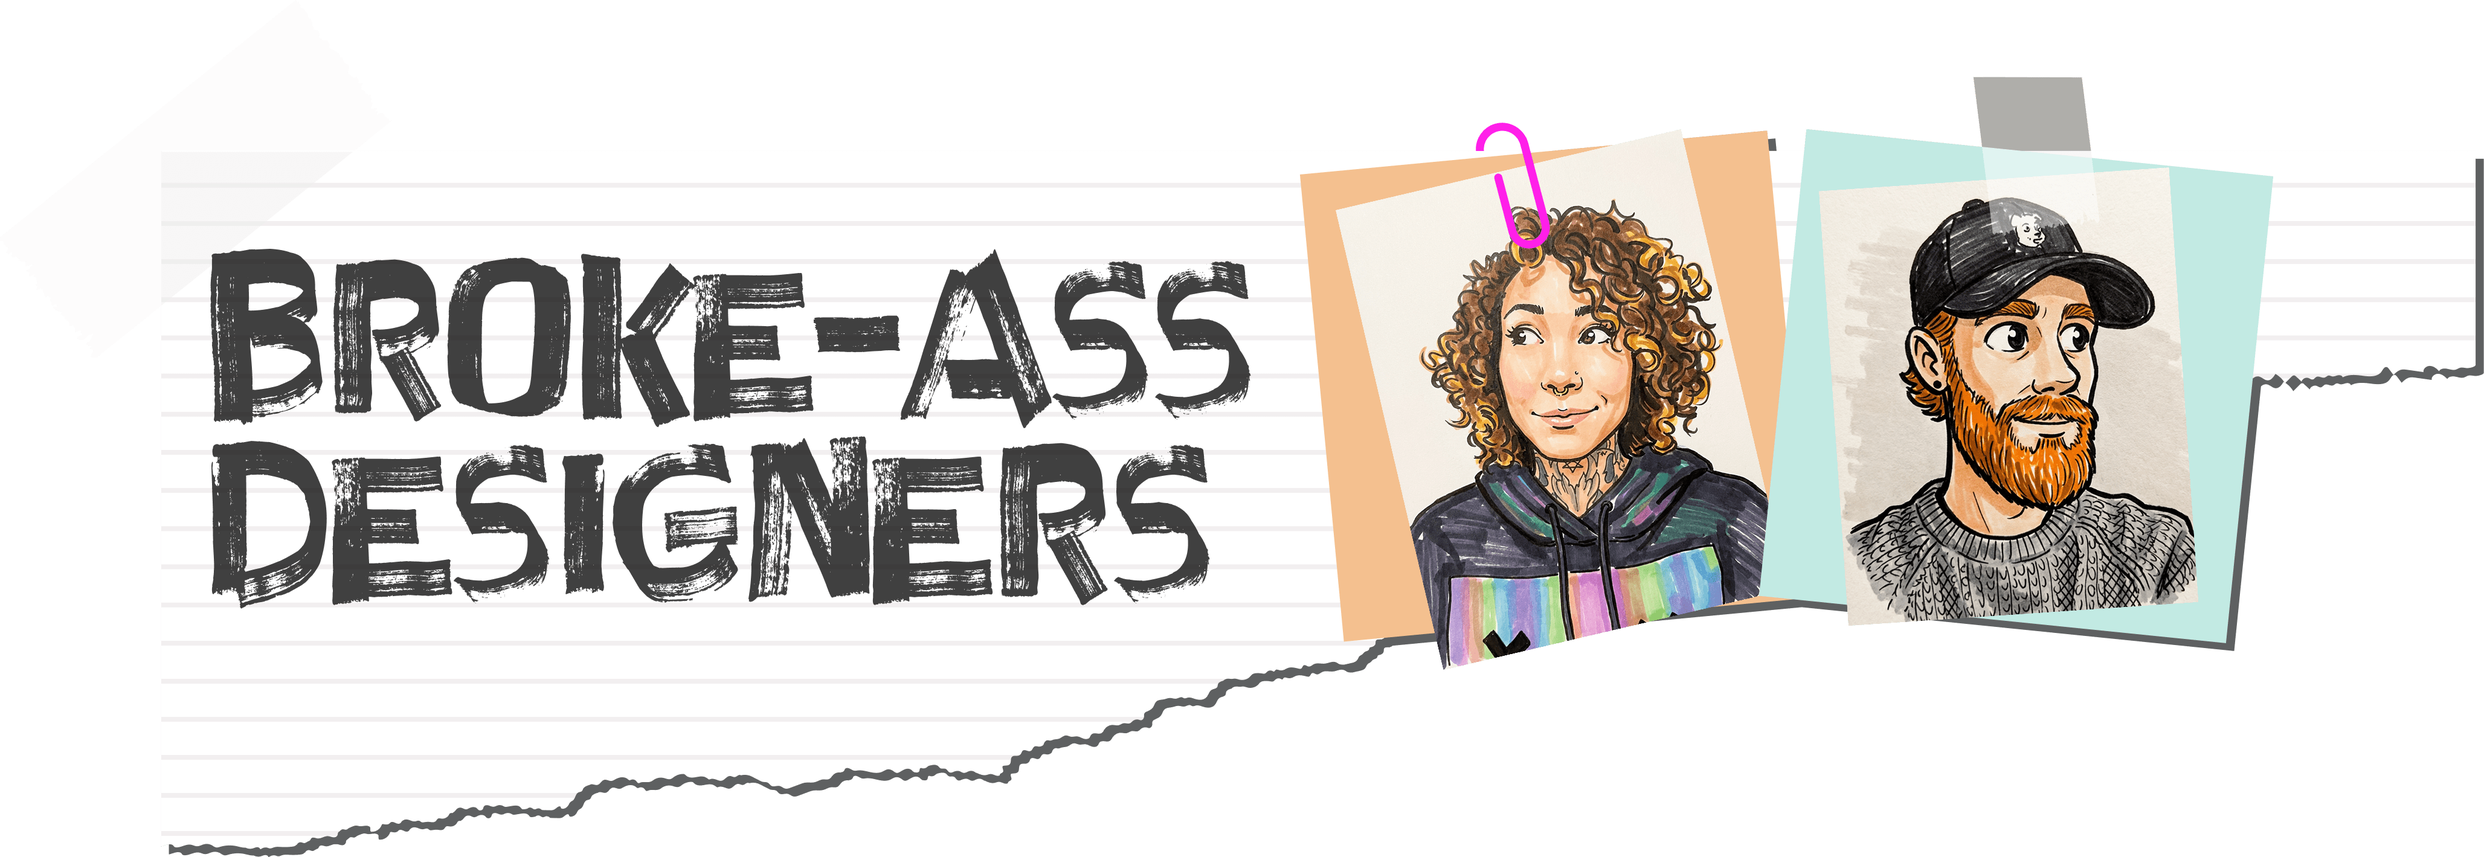
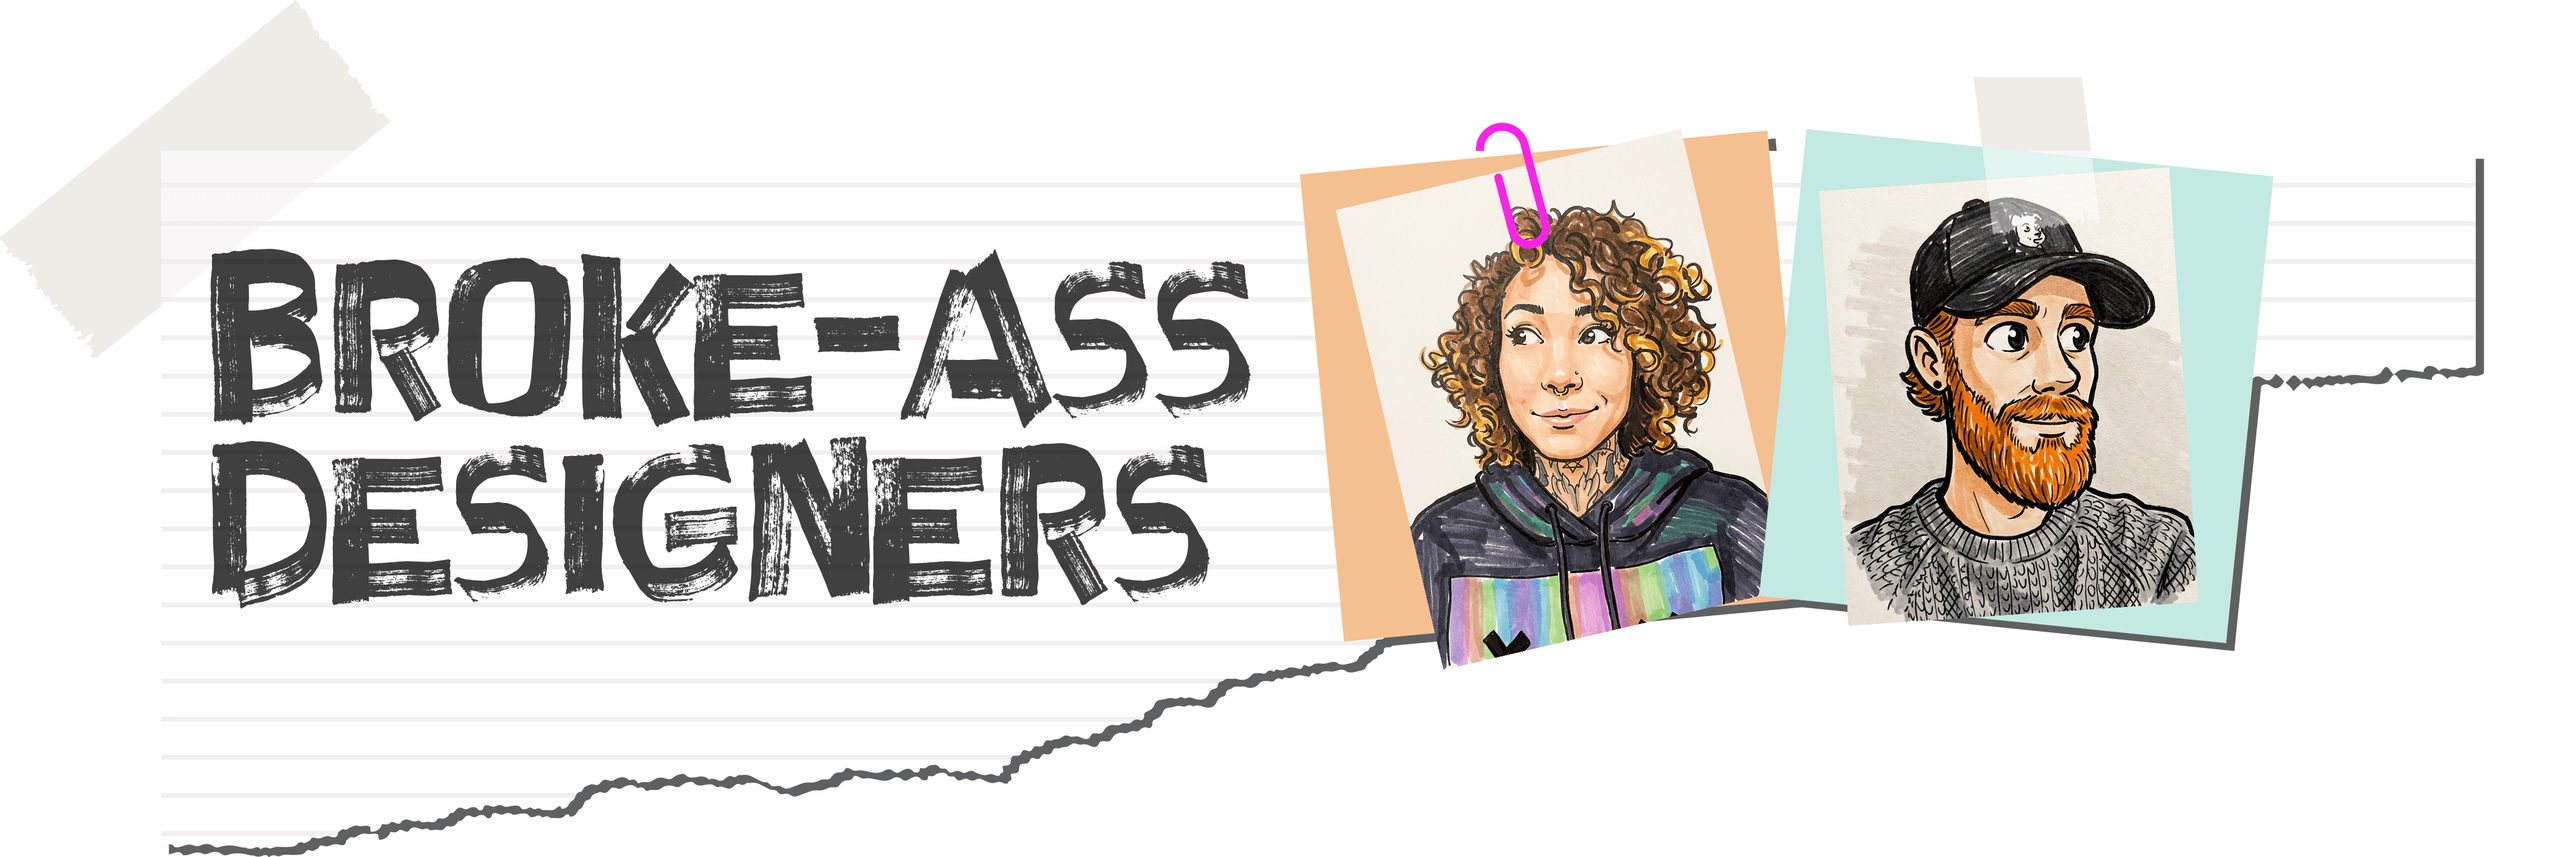
spacing mostly

Changed region(s): [[0.0623, 0.093, 1.0, 0.9922], [0.0623, 0.9922, 0.1245, 1.0]]

diff --git a/services.html b/services.html
@@ -142,6 +142,44 @@
   <!-- Services -->
   <div class="container">
 
+
+    <!-- Product Design -->
+    <section id="product-design" class="service-paper">
+      <div class="service-header">
+        <img src="images/paper_banner_productDesign.png" alt="Product Design">
+        <div class="service-description">
+          <h2>Product Design</h2>
+          <p>Apps, dashboards, user interfaces—we make digital products that people can actually use without screaming. Good UX shouldn't cost a fortune.</p>
+          <p><span class="highlight">What you get:</span> Wireframes, UI mockups, prototypes, and designs that make sense to actual humans.</p>
+        </div>
+      </div>
+
+      <div class="work-grid">
+        <div class="work-item">
+          <div class="work-item-image">[Project Image]</div>
+          <div class="work-item-info">
+            <p class="work-item-title">Mobile App UI</p>
+            <p class="work-item-client">Fitness Startup</p>
+          </div>
+        </div>
+        <div class="work-item">
+          <div class="work-item-image">[Project Image]</div>
+          <div class="work-item-info">
+            <p class="work-item-title">Dashboard Redesign</p>
+            <p class="work-item-client">SaaS Company</p>
+          </div>
+        </div>
+        <div class="work-item">
+          <div class="work-item-image">[Project Image]</div>
+          <div class="work-item-info">
+            <p class="work-item-title">App Prototype</p>
+            <p class="work-item-client">MVP Project</p>
+          </div>
+        </div>
+      </div>
+    </section>
+
+
     <!-- Web Design -->
     <section id="web-design" class="service-paper">
       <div class="service-header">
@@ -317,42 +355,6 @@
           <div class="work-item-info">
             <p class="work-item-title">Merch Design</p>
             <p class="work-item-client">Band</p>
-          </div>
-        </div>
-      </div>
-    </section>
-
-    <!-- Product Design -->
-    <section id="product-design" class="service-paper">
-      <div class="service-header">
-        <img src="images/paper_banner_productDesign.png" alt="Product Design">
-        <div class="service-description">
-          <h2>Product Design</h2>
-          <p>Apps, dashboards, user interfaces—we make digital products that people can actually use without screaming. Good UX shouldn't cost a fortune.</p>
-          <p><span class="highlight">What you get:</span> Wireframes, UI mockups, prototypes, and designs that make sense to actual humans.</p>
-        </div>
-      </div>
-
-      <div class="work-grid">
-        <div class="work-item">
-          <div class="work-item-image">[Project Image]</div>
-          <div class="work-item-info">
-            <p class="work-item-title">Mobile App UI</p>
-            <p class="work-item-client">Fitness Startup</p>
-          </div>
-        </div>
-        <div class="work-item">
-          <div class="work-item-image">[Project Image]</div>
-          <div class="work-item-info">
-            <p class="work-item-title">Dashboard Redesign</p>
-            <p class="work-item-client">SaaS Company</p>
-          </div>
-        </div>
-        <div class="work-item">
-          <div class="work-item-image">[Project Image]</div>
-          <div class="work-item-info">
-            <p class="work-item-title">App Prototype</p>
-            <p class="work-item-client">MVP Project</p>
           </div>
         </div>
       </div>

diff --git a/css/styles.css b/css/styles.css
@@ -298,16 +298,18 @@ p:last-child {
   display: flex;
   align-items: center;
   padding: var(--space-xl) 0;
+  padding-top: 0px;
 }
 
 .hero-content {
   position: relative;
-  max-width: 900px;
-  margin: 0 auto;
+  width: 100%;
 }
 
 .hero-banner {
-  max-width: 100%;
+  width: calc(100vw - var(--spiral-width) - var(--space-md) * 2);
+  max-width: 1200px;
+  margin-left: calc(-1 * var(--space-lg) + var(--space-md));
   filter: drop-shadow(4px 6px 8px rgba(0,0,0,0.2));
 }
 
@@ -759,6 +761,7 @@ p:last-child {
   .hero {
     min-height: auto;
     padding: var(--space-xl) 0;
+    padding-top: 0px;
   }
 
   .team-papers {
@@ -817,6 +820,20 @@ p:last-child {
   .spiral-edge {
     background-color: var(--paper-white);
     background-image: none;
+  }
+}
+
+@media (max-width: 400px) {
+  .nav-logo {
+    font-size: 1.2rem;
+  }
+
+  .nav-paper {
+    padding: var(--space-md) var(--space-md);
+  }
+
+  .nav-inner {
+    gap: var(--space-sm);
   }
 }
 
